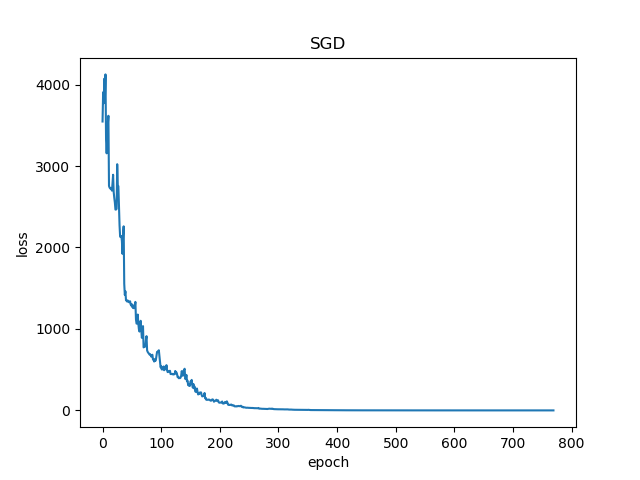
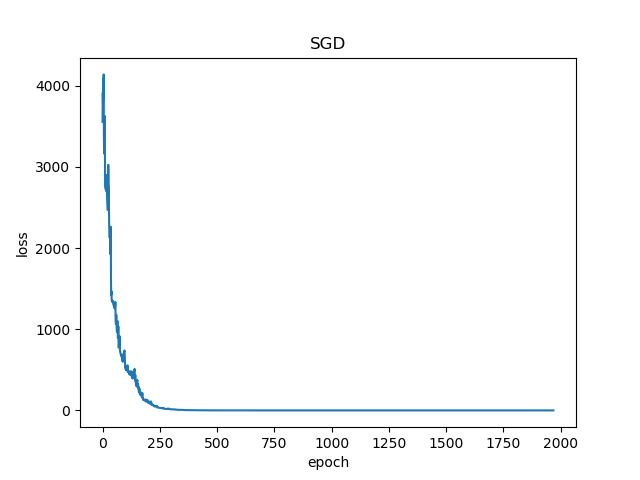
update

diff --git a/B-教学案例与实践/B6-神经网络基本原理简明教程/微软-方案1/NeuralNetwork/ch05/level6_NormalizeLabelData.py b/B-教学案例与实践/B6-神经网络基本原理简明教程/微软-方案1/NeuralNetwork/ch05/level6_NormalizeLabelData.py
@@ -12,21 +12,23 @@ def NormalizeXYData(XData, YData):
     return X, X_norm, Y, Y_norm
 
 # try to give the answer for the price of west(2)，5th ring(5)，93m2
-def PredicateTest(W, B, X_norm, Y_norm):
+def Inference(W, B, X_norm, Y_norm):
     xt = np.array([2,5,93]).reshape(3,1)
     xt_new = NormalizePredicateData(xt, X_norm)
     z = ForwardCalculationBatch(W, B, xt_new)
+    # 根据公式2
     zz = z * Y_norm[1,0] + Y_norm[0,0]
-    return zz
+    return z, zz
 
 # main
 if __name__ == '__main__':
     # hyper parameters
     # SGD, MiniBatch, FullBatch
-    method = "FullBatch"
+    method = "SGD"
     # read data
     raw_X, raw_Y = ReadData()
     X, X_norm, Y, Y_norm = NormalizeXYData(raw_X, raw_Y)
     w, b = train(method, X, Y)
-    z = PredicateTest(w, b, X_norm, Y_norm)
+    z,zz = Inference(w, b, X_norm, Y_norm)
     print("z=", z)
+    print("zz=", zz)

diff --git a/B-教学案例与实践/B6-神经网络基本原理简明教程/微软-方案1/NeuralNetwork/ch05/level5_NormalizePredicateData.py b/B-教学案例与实践/B6-神经网络基本原理简明教程/微软-方案1/NeuralNetwork/ch05/level5_NormalizePredicateData.py
@@ -16,7 +16,7 @@ def NormalizePredicateData(X_raw, X_norm):
     return X_new
 
 # try to give the answer for the price of west(2)，5th ring(5)，93m2
-def PredicateTest(W, B, X_norm):
+def Inference(W, B, X_norm):
     xt = np.array([2,5,93]).reshape(3,1)
     xt_new = NormalizePredicateData(xt, X_norm)
     z = ForwardCalculationBatch(W, B, xt_new)
@@ -31,5 +31,5 @@ if __name__ == '__main__':
     raw_X, Y = ReadData()
     X,X_norm = NormalizeData(raw_X)
     w, b = train(method,X,Y)
-    z = PredicateTest(w,b,X_norm)
+    z = Inference(w,b,X_norm)
     print("z=", z)

diff --git a/B-教学案例与实践/B6-神经网络基本原理简明教程/微软-方案1/NeuralNetwork/ch05/level2_NeuralNetwork.py b/B-教学案例与实践/B6-神经网络基本原理简明教程/微软-方案1/NeuralNetwork/ch05/level2_NeuralNetwork.py
@@ -114,7 +114,7 @@ def ShowLossHistory(dict_loss, method):
         loss.append(key)
 
     #plt.plot(loss)
-    plt.plot(loss[30:800])
+    plt.plot(loss[30:])
     plt.title(method)
     plt.xlabel("epoch")
     plt.ylabel("loss")

diff --git a/B-教学案例与实践/B6-神经网络基本原理简明教程/05.6-归一化标签值.md b/B-教学案例与实践/B6-神经网络基本原理简明教程/05.6-归一化标签值.md
@@ -32,20 +32,22 @@ def NormalizeXYData(XData, YData):
 ```
 w=0.01374991 -0.09151012  0.90392058
 b=0.08233892
+z=0.62474539
 ```
-这样在预测时，z值也会非常小。所以要把预测出来的值也要做反归一化。根据公式1：
+这样在预测时，z值也会非常小，只有0.62，一套房子不可能6000块钱，一平米都买不到。所以要把预测出来的值也要做反归一化。根据公式1：
 
 $$y = y_{new}*y_{range}+y_{min} \tag{2}$$
 
 代码：
 ```Python
 # try to give the answer for the price of west(2)，5th ring(5)，93m2
-def PredicateTest(W, B, X_norm, Y_norm):
+def Inference(W, B, X_norm, Y_norm):
     xt = np.array([2,5,93]).reshape(3,1)
     xt_new = NormalizePredicateData(xt, X_norm)
     z = ForwardCalculationBatch(W, B, xt_new)
+    # 根据公式2
     zz = z * Y_norm[1,0] + Y_norm[0,0]
-    return zz
+    return z, zz
 ```
 
 倒数第二行代码，就是公式2。在主程序里，要把X,Y同时归一化：
@@ -60,16 +62,20 @@ if __name__ == '__main__':
     raw_X, raw_Y = ReadData()
     X, X_norm, Y, Y_norm = NormalizeXYData(raw_X, raw_Y)
     w, b = train(method, X, Y)
-    z = PredicateTest(w, b, X_norm, Y_norm)
+    z,zz = Inference(w, b, X_norm, Y_norm)
     print("z=", z)
+    print("zz=", zz)
 
 ```
 
 运行......结果如下：
 ```
-[[ 0.01374991 -0.09151012  0.90392058]] [[0.08233892]]
+0 998 1.7852160478546644e-08 [[ 0.01392612 -0.09132938  0.90441688]] [[0.08186357]]
+0 999 1.8009336262668775e-08 [[ 0.01392264 -0.09133068  0.90441305]] [[0.08185836]]
+[[ 0.01392612 -0.09132938  0.90441688]] [[0.08186357]]
 epoch=0, iteration=998, loss=0.000000
-z= [[529.00148631]]
+z= [[0.62476927]]
+zz= [[529.02416957]]
 ```
 哈哈！82年的雪碧果然厉害！我们只迭代了1轮就结束了，而且得到了正确的预测值！
 
@@ -85,8 +91,9 @@ z= [[529.00148631]]
 
 1. X必须归一化，否则无法训练
 2. 训练出的结果W和B，在推理时有两种使用方式：
-a. 直接使用，此时必须把推理时输入的X也做相同规则的归一化
-b. 反归一化为W,B的本来值$W_{Real},B_{Real}$，推理时输入的X不需要改动
+  >> a. 直接使用，此时必须把推理时输入的X也做相同规则的归一化
+  
+  >> b. 反归一化为W,B的本来值$W_{Real},B_{Real}$，推理时输入的X不需要改动
 3. Y可以归一化，好处是迭代次数少。如果结果收敛，也可以不归一化，如果不收敛（数值过大），就必须归一化
 4. 如果Y归一化，先沿袭第2步的做法，对得出来的结果做关于Y的反归一化
 
@@ -95,15 +102,9 @@ b. 反归一化为W,B的本来值$W_{Real},B_{Real}$，推理时输入的X不需
 |标签值归一化|标签值不归一化|
 |------|-----|
 |<img src=".\Images\5\LossWithNormalizeLabelData.png">|<img src=".\Images\5\LossWithoutNormalizeLabelData.png">|
-
-左侧做了标签值归一化，看loss值起始值0.035，看log用了900次迭代。
-
-右侧的没有做标签值归一化，loss从4000开始，用了1200多次迭代，达到了理想值。
-
-真正复杂的神经网络有个理论叫做"Batch Normalization"——批标准化，以后咱们遇到时再讲。
-
-木头：好啊好啊！
+|Loss初始值只有0.04|Loss初始值达到4000|
+|迭代次数1000次|迭代次数2000次|
 
 至此，我们完美地解决了北京地区的房价预测问题！但是还没有解决自己可以有能力买一套北京的房子的问题......
 
-代码位置：ch06, level6
+代码位置：ch06/level6

diff --git a/B-教学案例与实践/B6-神经网络基本原理简明教程/07.2-线性二分类实现.md b/B-教学案例与实践/B6-神经网络基本原理简明教程/07.2-线性二分类实现.md
@@ -18,7 +18,7 @@ Copyright © Microsoft Corporation. All rights reserved.
 |---|---|----|---|--|--|--|
 |经度相对值|0.025|4.109|7.767|...|2.762|
 |纬度相对值|3.408|8.012|1.872|...|2.653|
-|污染物种类|1|1|0|...|1|
+|1=汉, 0=楚|1|1|0|...|1|
 
 ### 问题：
 1. 经纬度相对值为(5,1)时，属于楚还是汉？
@@ -32,7 +32,7 @@ Copyright © Microsoft Corporation. All rights reserved.
 从图示来看，在两个颜色区间之间似乎存在一条直线，即线性可分的。我们如何通过神经网络精确地找到这条分界线呢？
 
 - 从视觉上判断是线性可分的，所以我们使用单层神经网络即可
-- 输入特征是温度和湿度，所以我们在输入层设置两个输入X1=经度，X2=维度
+- 输入特征是经度和纬度，所以我们在输入层设置两个输入X1=经度，X2=维度
 - 最后输出的是两个分类，分别是楚汉地盘，可以看成非0即1的二分类问题，所以我们只用一个输出单元就可以了
 
 ## 定义神经网络结构
@@ -45,7 +45,7 @@ Copyright © Microsoft Corporation. All rights reserved.
 
 ### 输入层
 
-输入温度(x1)和湿度(x2)两个特征：
+输入经度(x1)和纬度(x2)两个特征：
 
 $$
 X=\begin{pmatrix}
@@ -123,7 +123,7 @@ $$=A-Y$$
 
 ### 样本特征值
 
-$X_m$表示第m个样本值，$x_{m,n}$表示第m个样本的第n个特征值。样本数据集中一共有200个数据，每个数据有两个特征：温度和湿度。所以定义矩阵如下：
+$X_m$表示第m个样本值，$x_{m,n}$表示第m个样本的第n个特征值。样本数据集中一共有200个数据，每个数据有两个特征：经度和纬度。所以定义矩阵如下：
 $$
 X = 
 \begin{pmatrix}
@@ -184,6 +184,7 @@ def ToBool(YData):
     # end for
     return Y
 ```
+
 遍历标签数据YData中所有记录，设置类别为1的标签为负例0，设置类别为2的标签为正例1。下载的数据中，被标记为1和2，表示第1类和第2类，需要转换成0/1。
 
 上述函数在本例中并没有用，因为样本本身就是0/1标记的。
@@ -276,3 +277,5 @@ result=
 <img src=".\Images\7\binary_loss.png">
 
 代码位置：ch07, BaseClassification.py, level1_BinaryClassification.py
+
+**课后作业：用tanh函数代替logistic函数做为分类函数，解决二分类问题。**

diff --git a/B-教学案例与实践/B6-神经网络基本原理简明教程/07.1-线性二分类原理.md b/B-教学案例与实践/B6-神经网络基本原理简明教程/07.1-线性二分类原理.md
@@ -1,7 +1,7 @@
 Copyright © Microsoft Corporation. All rights reserved.
   适用于[License](https://github.com/Microsoft/ai-edu/blob/master/LICENSE.md)版权许可
 
-# 二分类原理
+# 线性二分类原理
 
 ## 分类函数
 
@@ -17,7 +17,7 @@ $$a^{'}(z) = a(z)(1 - a(z))$$
 
 ### 输入值域
 
-$$[-\infin, \infin]$$
+$$[-\infty, \infty]$$
 
 ### 输出值域
 
@@ -29,7 +29,7 @@ $$[0,1]$$
 
 ### 使用方式
 
-此函数实际上是一个概率计算，它把$[-\infin, \infin]$之间的任何数字都压缩到[0,1]之间，返回一个概率值。这就是它的工作原理。
+此函数实际上是一个概率计算，它把$[-\infty, \infty]$之间的任何数字都压缩到[0,1]之间，返回一个概率值。这就是它的工作原理。
 
 训练时，一个样本x在经过神经网络的最后一层的矩阵运算结果作为输入z，经过Sigmoid后，输出一个[0,1]之间的预测值。我们假设这个样本的标签值为0（属于负类，另外一类是第1类属于正类），如果其预测值越接近0，就越接近标签值，那么误差越小，反向传播的力度就越小。
 
@@ -195,6 +195,6 @@ $$\ln {a \over 1-a} = wx+b \tag{12}$$
 - 不仅预测出类别，而是得到了近似的概率，这对许多需要利用概率辅助决策的任务很有用
 - 对率函数是任意阶可导的凸函数，有很好的数学性，许多数值优化算法都可以直接用于求取最优解
 
-
-
 参考：周志华老师的西瓜书
+
+

diff --git a/B-教学案例与实践/B6-神经网络基本原理简明教程/05.5-正确的推理方法.md b/B-教学案例与实践/B6-神经网络基本原理简明教程/05.5-正确的推理方法.md
@@ -50,9 +50,11 @@ if __name__ == '__main__':
 
 我先增加了一个函数，NormalizePredicateData，根据样本训练时的样本归一化方法，同样地处理一下预测样本xt，得到归一化后的xt_new，然后用训练出来的W/B的值来计算，得到z2，结果是这样的：
 ```
-[[  5.99981735 -40.00019092 394.9995038 ]] [[292.00048445]]
+1 998 1.5969261594744756e-08 [[  5.99981608 -40.00019225 394.99950035]] [[292.00048783]]
+1 999 1.610972310171808e-08 [[  5.99981939 -40.00019101 394.99950399]] [[292.0004928]]
+[[  5.99981608 -40.00019225 394.99950035]] [[292.00048783]]
 epoch=1, iteration=998, loss=0.000000
-z= [[528.99994749]]
+z= [[528.99994712]]
 ```
 可以看到z的预测值和正规方程的方法是一致的，我们并不需要推导出原始的W，B值。
 
